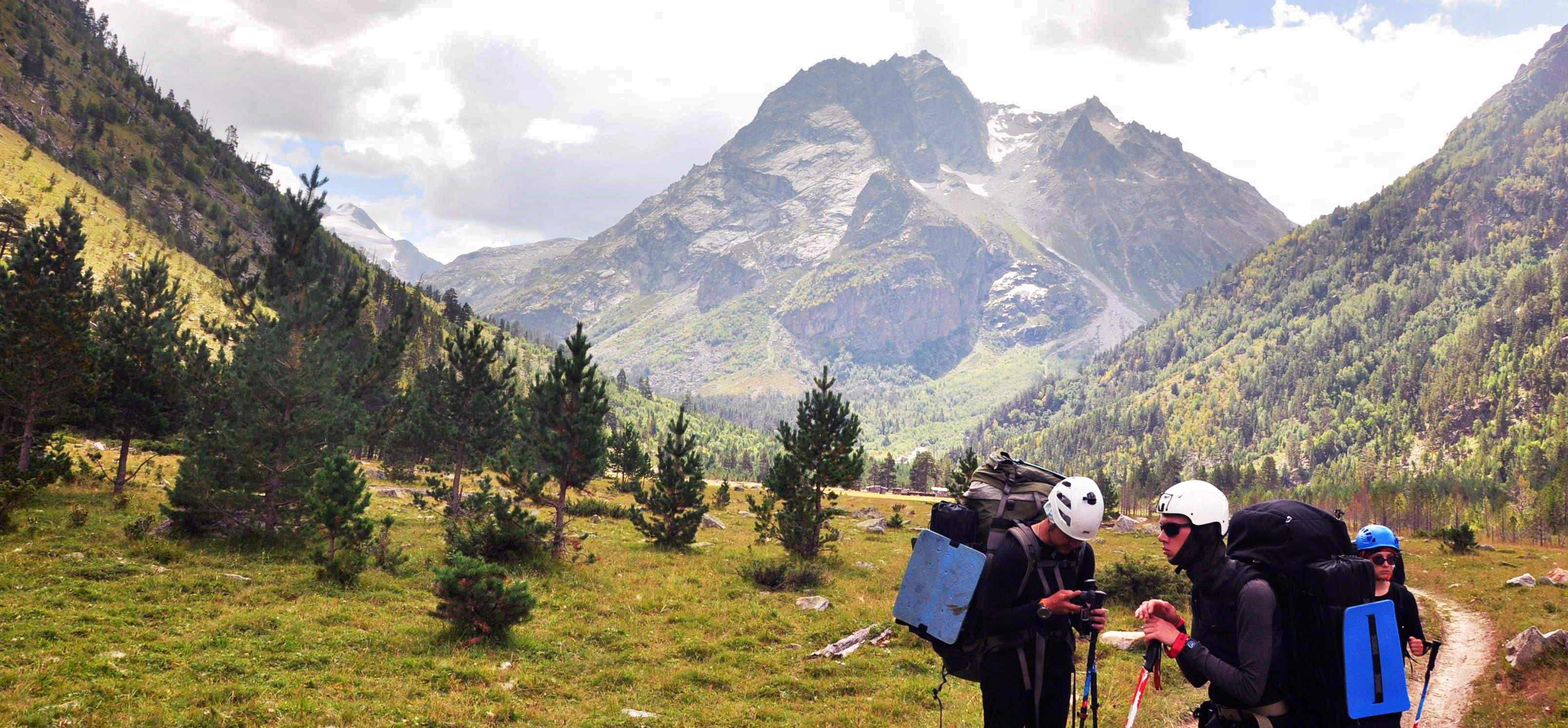
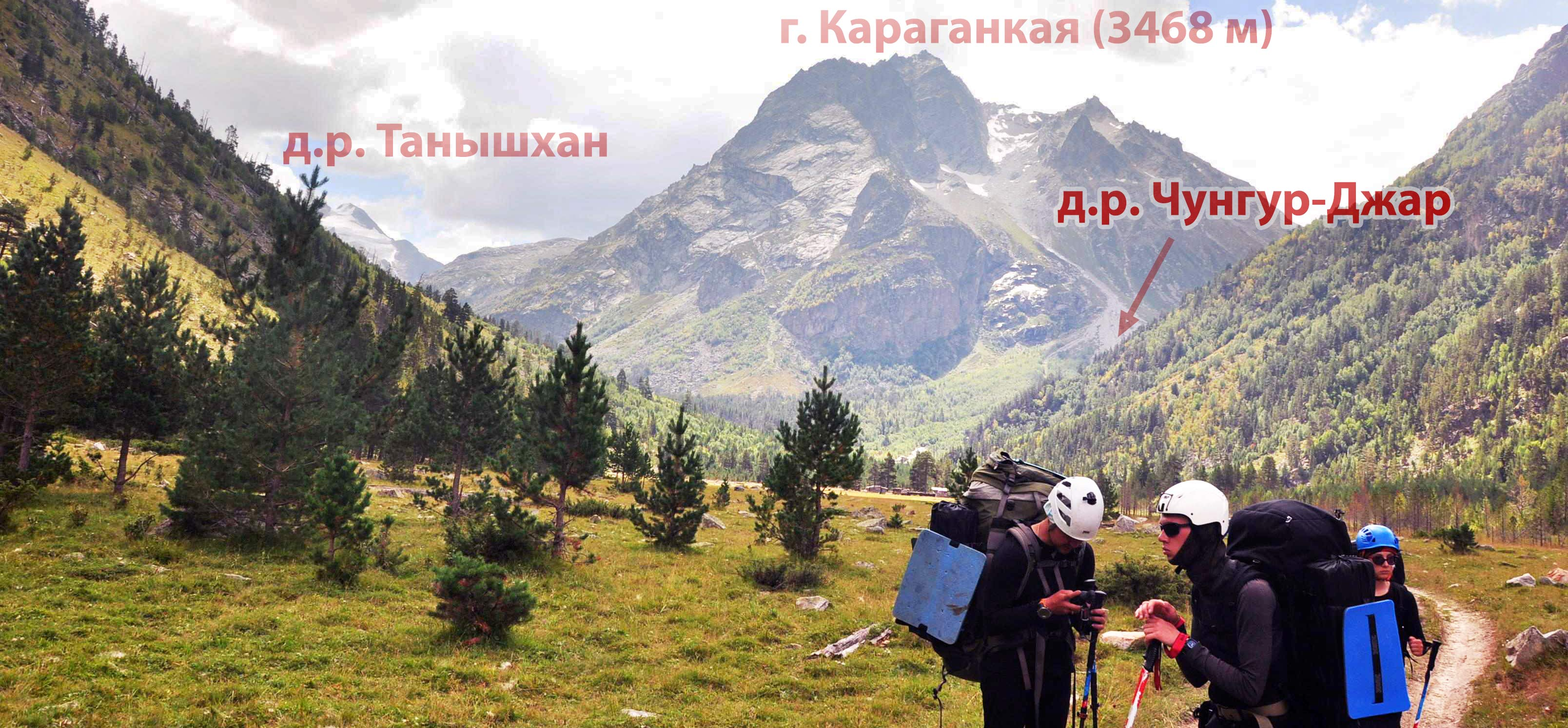
28

diff --git a/latex-presentation/28.tex b/latex-presentation/28.tex
@@ -1,0 +1,64 @@
+\begin{frame}
+	\frametitle{День 11. 28 августа}
+	\framesubtitle{д.р. Чиринкол~--- д.р. Кубань} % Optional subtitle
+	\begin{columns}[c] % The "c" option specifies centered vertical alignment while the "t" option is used for top vertical alignment
+		\begin{column}{0.55\textwidth} % Left column width
+			\begin{itemize}
+				\item Четверо сходят
+				\item Солнышко светит
+				\item Лёша психанул
+				\item Прошли \textbf{12.7} км
+				\item ЧХВ: 3:23
+				\item Набор/сброс: \textcolor{darkred}{\textbf{+90}}/\textcolor{darkblue}{\textbf{-500}}~м
+			\end{itemize}			
+		\end{column}
+		\begin{column}{0.45\textwidth} % Right column width
+			\centering
+			\includegraphics[width=\linewidth]{../pics/mini_maps/27}
+		\end{column}
+	\end{columns}
+\end{frame}
+
+\begin{frame}
+	\frametitle{Настроение руководителя}
+	\framesubtitle{День 11, 28 августа}	
+	\centering
+	\includegraphics[width=\textwidth]{../pics/DSC_0435 2}			
+\end{frame}
+
+\begin{frame}
+	\frametitle{Руководы}
+	\framesubtitle{День 11, 28 августа}	
+	\centering
+	\includegraphics[width=\textwidth]{../pics/DSC_0455 2}			
+\end{frame}
+
+\begin{frame}
+	\frametitle{Д.р. Чунгур-Джар}
+	\framesubtitle{День 11, 28 августа}	
+	\footnotesize Именно эти ступени мы обходили через пер. Перемётный
+	\centering
+	\includegraphics[width=\textwidth]{../pics/DSC_0459 2}			
+\end{frame}
+
+\begin{frame}
+	\frametitle{Вид д.р. Чиринкол}
+	\framesubtitle{День 11, 28 августа}	
+	\footnotesize«Чирин къол»~--- «Гнилое ущелье»
+	\centering
+	\includegraphics[width=0.9\textwidth]{../pics/DSC_0461 2}			
+\end{frame}
+
+\begin{frame}
+	\frametitle{Вид д.р. Чиринкол}
+	\framesubtitle{День 11, 28 августа}	
+	\centering
+	\includegraphics[width=0.45\textwidth]{../pics/DSC_0460 2}			
+\end{frame}
+
+\begin{frame}
+	\frametitle{Вилка долин}
+	\framesubtitle{День 11, 28 августа}	
+	\centering
+	\includegraphics[width=\textwidth]{../pics/DSC_0462 2}			
+\end{frame}

diff --git a/latex-presentation/27.tex b/latex-presentation/27.tex
@@ -18,7 +18,7 @@
 		\end{column}
 		\begin{column}{0.45\textwidth} % Right column width
 			\centering
-			\includegraphics[width=\linewidth]{../pics/mini_maps/26}
+			\includegraphics[width=\linewidth]{../pics/mini_maps/27}
 		\end{column}
 	\end{columns}
 \end{frame}

diff --git a/latex-presentation/main.tex b/latex-presentation/main.tex
@@ -320,7 +320,7 @@
 	\input{25}
 	\input{26}
 	\input{27}
-%	\input{28}
+	\input{28}
 %	\input{29}
 %	\input{30}
 	\input{results}
